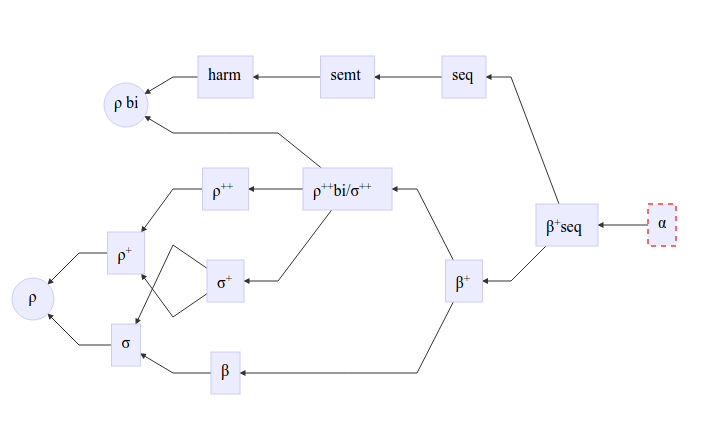
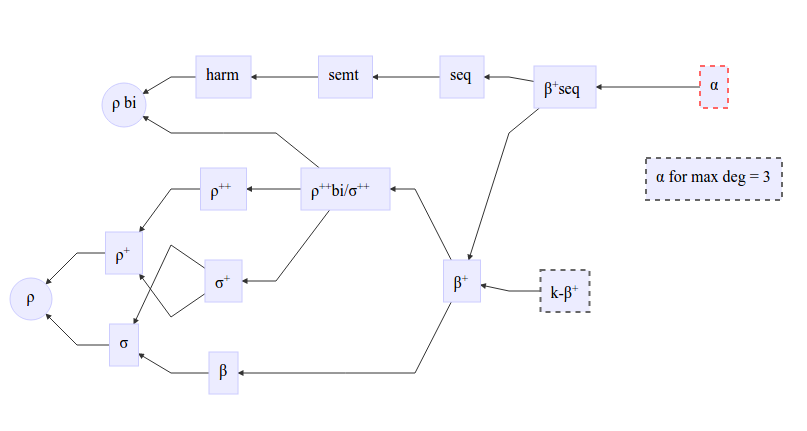
Expanded the diagram

diff --git a/README.md b/README.md
@@ -9,6 +9,8 @@ Notation is borrowed from [1] and [2]:
 * harm = harmonious
 * semt = super-edge-magic total
 * seq - sequential
+* red dotted border means that this labeling doesn't work for all trees and we don't have a full characterization of counterexamples
+* dark grey dotted border means that this labeling has known families of counterexamples and it is conjectured that there are no other counterexamples
 
 Beta+seq labeling - is a new labeling, which is a strict subset of both beta+ and sequential labelings (TODO: is it equal to intersection of them both?): we have 2 partitions of vertices in the tree and edges connect vertices from different partitions; to switch from beta+ to seq and vice versa we "reverse" values in one of the partitions and shift them (mod number of vertices) by appropriate value (TODO: i guess this value is easy to calculate, depending on the size of partitions). And so the conjecture is:
 
@@ -25,13 +27,12 @@ Example:
 * beta+ edges: 0->6, 6->2, 0->5, 5->4, 0->3, 3->1 (which means that we havee every difference between 6 and 1)
 * seq edges:   2->6, 6->0, 2->5, 5->4, 2->3, 3->1 (which means that we have every sum between 4 and 9)
 
-There also a very interesting k-beta+ labeling (when we fix an arbitrary set of values for edges and still ask for properties of beta+ that values of vertices in one of the partitions are locally more than values of another partition). It looks like there is only 1 affine family of counterexamples:
-* T = {0->1, 1->2, 0->3, 3->4, 0->5, 5->6}; E = {1, 2, 3, 4, 6, 7} * c, c >= 1.
-
-A question!
-* Does there exist a k-sequential labeling? Maybe also a k-beta+seq labeling?
-
 # Other new results (or alternatively, it's also interesting to note the following:)
+There is also a very interesting k-beta+ labeling (when we fix an arbitrary set of values for edges and still ask for properties of beta+ that values of vertices in one of the partitions are locally more than values of another partition). It looks like there is only 1 affine family of counterexamples:
+
+T = {0->1, 1->2, 0->3, 3->4, 0->5, 5->6}; E = {1, 2, 3, 4, 6, 7} * c, c >= 1.
+
+A question: does there exist a k-sequential labeling? Maybe also a k-beta+seq labeling?
 * already mentioned k-beta+ labeling
 * \rho++ bigraceful labeling is the same as \sigma++ labeling (you just need to reverse values in one the partitions as in beta+seq)
 * number of graceful labelings for trees of fixed number of vertices is always divisible by 4 (TODO: we get a factor of 2 by reversing all labels and another factor by 2 by applying a proof by moving the edge with label 1) (oh, actually this was also recently independently proven in [8])
